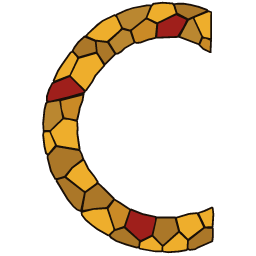
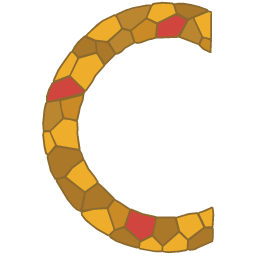
I-108: ChronoKi mark inks on dark grounds pass contrast

Changed region(s): [[0.1562, 0.0312, 0.5312, 0.9062], [0.4062, 0.8125, 0.8438, 1.0], [0.4375, 0.0, 0.8438, 0.2188]]

diff --git a/src/brand/marks/chronoki.constants.ts b/src/brand/marks/chronoki.constants.ts
@@ -3,21 +3,24 @@ import type { BrandMarkData } from '../brand.type';
 
 const INK = {
   grout: '#1a1008',
+  groutOnDark: '#8c6a2e',
   amber: '#eeae2c',
   umber: '#ab7728',
   ochre: '#ba8730',
   oxblood: '#9f1f1b',
+  oxbloodOnDark: '#d0463f',
   honey: '#ca8a26',
 } as const;
 
 const CHRONOKI_MARK: BrandMarkData = {
   viewBox: '-156 -4 988 988',
+  grounds: { dark: { inks: 'onDark' } },
   paths: [
-    { ink: INK.grout, d: 'M287 51L285 51L238 74L219 88L183 122L172 134L170 133L168 134L144 156L129 176L121 191L121 193L116 195L114 196L80 244L65 267L48 305L48 308L49 312L45 314L43 316L30 341L22 366L21 386L22 388L23 389L19 392L18 394L12 420L7 472L9 499L9 501L10 502L9 503L9 505L7 518L12 562L18 588L19 590L25 595L24 605L37 657L54 688L55 690L59 690L59 696L102 767L125 795L140 808L155 814L157 827L172 847L184 857L195 866L217 883L261 908L263 908L264 908L270 916L291 929L329 943L371 955L373 955L377 954L383 959L384 959L441 969L466 970L468 970L470 968L474 970L493 973L535 970L564 965L570 961L574 963L576 964L598 961L608 955L665 930L666 929L667 927L669 910L669 878L667 875L668 872L671 823L668 797L664 794L662 793L660 794L631 807L606 816L604 815L573 818L523 833L521 832L449 832L446 830L396 819L351 801L349 801L348 802L306 774L287 763L286 760L247 721L224 700L225 698L224 696L212 677L188 646L172 613L169 611L169 609L162 589L154 574L155 571L146 511L147 492L145 463L144 460L146 458L153 427L155 414L166 385L170 361L170 359L169 358L172 356L175 349L179 347L203 313L215 290L250 250L250 248L292 207L300 206L314 198L328 184L365 163L371 165L386 164L418 152L429 150L446 145L448 144L451 145L531 142L533 141L610 170L611 172L627 188L655 201L657 201L658 201L660 200L660 198L662 151L662 149L661 148L662 147L662 145L662 43L662 41L660 40L650 36L648 36L646 32L645 31L612 19L579 11L554 7L529 7L515 9L513 7L511 6L471 3L436 7L433 8L428 14L412 13L356 24L328 33L293 49L290 52Z' },
+    { ink: INK.grout, onDark: INK.groutOnDark, d: 'M287 51L285 51L238 74L219 88L183 122L172 134L170 133L168 134L144 156L129 176L121 191L121 193L116 195L114 196L80 244L65 267L48 305L48 308L49 312L45 314L43 316L30 341L22 366L21 386L22 388L23 389L19 392L18 394L12 420L7 472L9 499L9 501L10 502L9 503L9 505L7 518L12 562L18 588L19 590L25 595L24 605L37 657L54 688L55 690L59 690L59 696L102 767L125 795L140 808L155 814L157 827L172 847L184 857L195 866L217 883L261 908L263 908L264 908L270 916L291 929L329 943L371 955L373 955L377 954L383 959L384 959L441 969L466 970L468 970L470 968L474 970L493 973L535 970L564 965L570 961L574 963L576 964L598 961L608 955L665 930L666 929L667 927L669 910L669 878L667 875L668 872L671 823L668 797L664 794L662 793L660 794L631 807L606 816L604 815L573 818L523 833L521 832L449 832L446 830L396 819L351 801L349 801L348 802L306 774L287 763L286 760L247 721L224 700L225 698L224 696L212 677L188 646L172 613L169 611L169 609L162 589L154 574L155 571L146 511L147 492L145 463L144 460L146 458L153 427L155 414L166 385L170 361L170 359L169 358L172 356L175 349L179 347L203 313L215 290L250 250L250 248L292 207L300 206L314 198L328 184L365 163L371 165L386 164L418 152L429 150L446 145L448 144L451 145L531 142L533 141L610 170L611 172L627 188L655 201L657 201L658 201L660 200L660 198L662 151L662 149L661 148L662 147L662 145L662 43L662 41L660 40L650 36L648 36L646 32L645 31L612 19L579 11L554 7L529 7L515 9L513 7L511 6L471 3L436 7L433 8L428 14L412 13L356 24L328 33L293 49L290 52Z' },
     { ink: INK.amber, d: 'M242 79L224 94L187 127L181 135L213 149L257 154L304 113L311 104L293 64L286 58ZM55 307L112 285L141 223L140 217L124 199L119 201L86 248L71 271ZM172 342L174 342L197 310L209 286L243 248L220 210L215 204L149 223L118 287L118 289ZM64 556L147 570L139 511L140 492L139 466L112 459L89 457L42 502L42 509ZM25 585L29 589L56 556L35 507L33 506L23 506L15 508L14 517L19 560ZM173 733L214 703L217 698L206 680L182 650L166 617L165 617L125 646L101 678L168 731ZM189 852L199 861L221 877L263 901L281 884L281 878L256 803L205 806L162 817L163 824L177 842ZM431 21L413 64L451 82L522 47L513 19L509 13L472 10L438 14ZM631 138L655 143L656 45L649 43L597 64L595 67L627 135ZM661 869L664 823L662 801L633 814L613 820L637 870ZM570 917L628 873L611 836L603 822L574 825L527 839L539 887ZM475 964L493 966L534 963L562 958L564 957L566 924L535 895L474 949L474 962ZM465 963L467 962L468 947L431 910L387 932L384 951L386 953L441 963Z' },
     { ink: INK.umber, d: 'M640 37L610 26L578 18L553 14L530 14L520 15L529 45L570 67ZM135 180L128 192L148 214L214 195L210 157L171 141L150 160ZM249 240L285 204L258 162L218 157L217 158L221 198ZM31 604L44 655L59 683L65 683L92 675L120 641L161 609L156 591L149 579L62 564L31 598ZM130 791L144 803L154 806L168 740L94 683L66 691L66 693L108 763ZM175 741L164 805L168 806L207 799L255 795L280 765L280 764L242 726L222 707ZM471 940L476 938L531 888L518 839L450 839L436 904ZM372 948L378 946L380 927L323 877L287 888L271 904L275 910L294 923L331 936ZM571 953L576 957L596 955L605 949L660 925L662 910L662 879L661 879L634 878L573 926Z' },
     { ink: INK.ochre, d: 'M357 30L331 39L297 55L296 56L318 102L345 110L351 108L406 64L423 20L413 20ZM540 136L610 163L611 162L621 138L589 69L587 68L572 76ZM266 158L292 200L297 200L310 192L324 179L359 159L345 118L317 111ZM25 397L19 421L14 473L15 497L17 498L37 498L84 452L73 388L71 386L30 393Z' },
-    { ink: INK.oxblood, d: 'M524 55L455 88L451 138L528 135L550 100L563 73ZM112 294L48 320L37 343L29 367L28 384L37 385L107 368L166 351L168 349L117 297ZM381 919L388 922L429 902L442 850L442 836L394 826L350 809L349 810L329 871Z' },
+    { ink: INK.oxblood, onDark: INK.oxbloodOnDark, d: 'M524 55L455 88L451 138L528 135L550 100L563 73ZM112 294L48 320L37 343L29 367L28 384L37 385L107 368L166 351L168 349L117 297ZM381 919L388 922L429 902L442 850L442 836L394 826L350 809L349 810L329 871Z' },
     { ink: INK.honey, d: 'M407 72L353 115L366 156L371 158L385 157L417 145L427 143L442 139L447 90L412 72ZM631 182L653 193L655 153L639 146L627 145L617 168ZM83 416L93 449L138 457L139 455L146 426L148 412L159 384L162 365L80 386ZM288 878L291 879L322 868L343 807L302 780L286 770L263 802Z' },
   ],
 };
